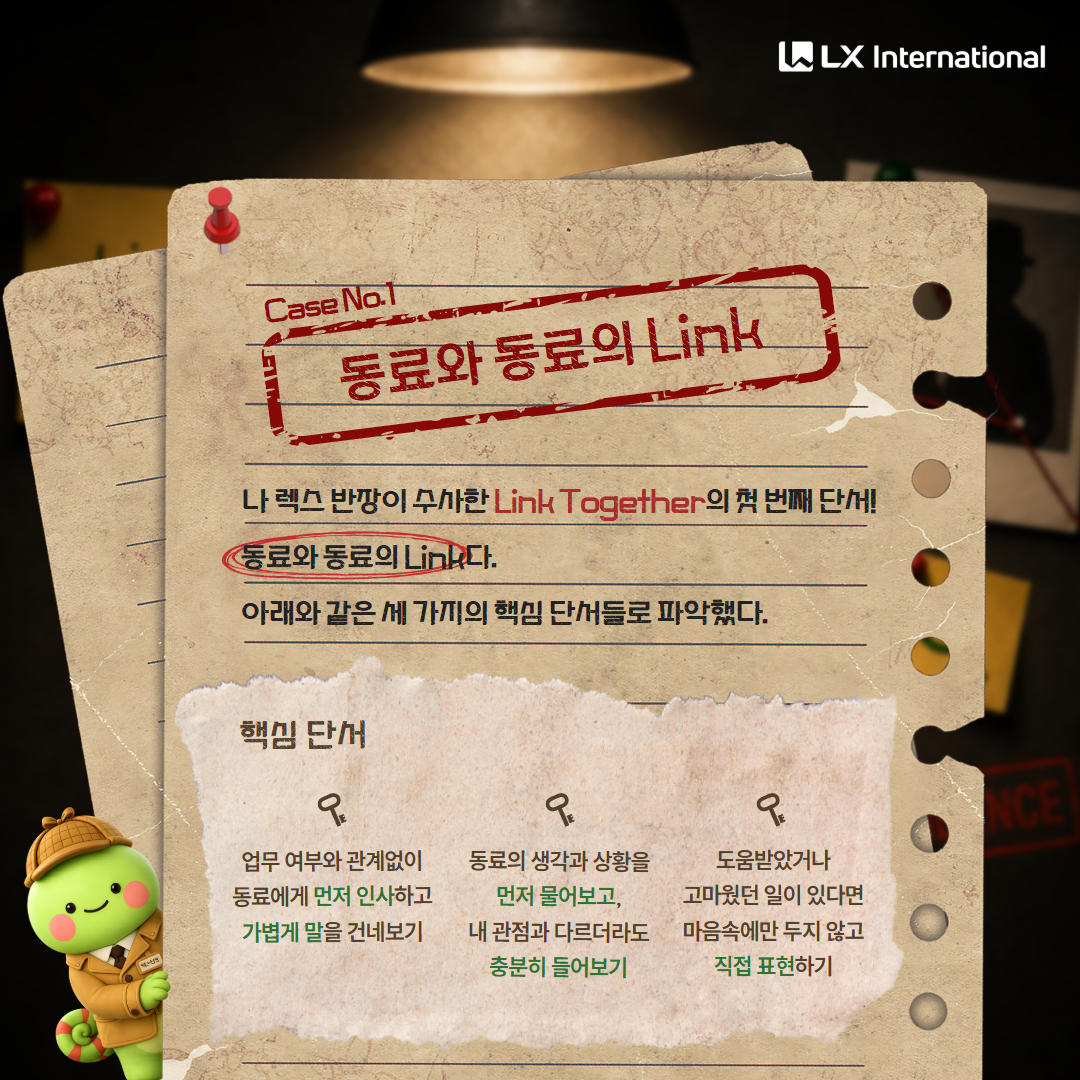
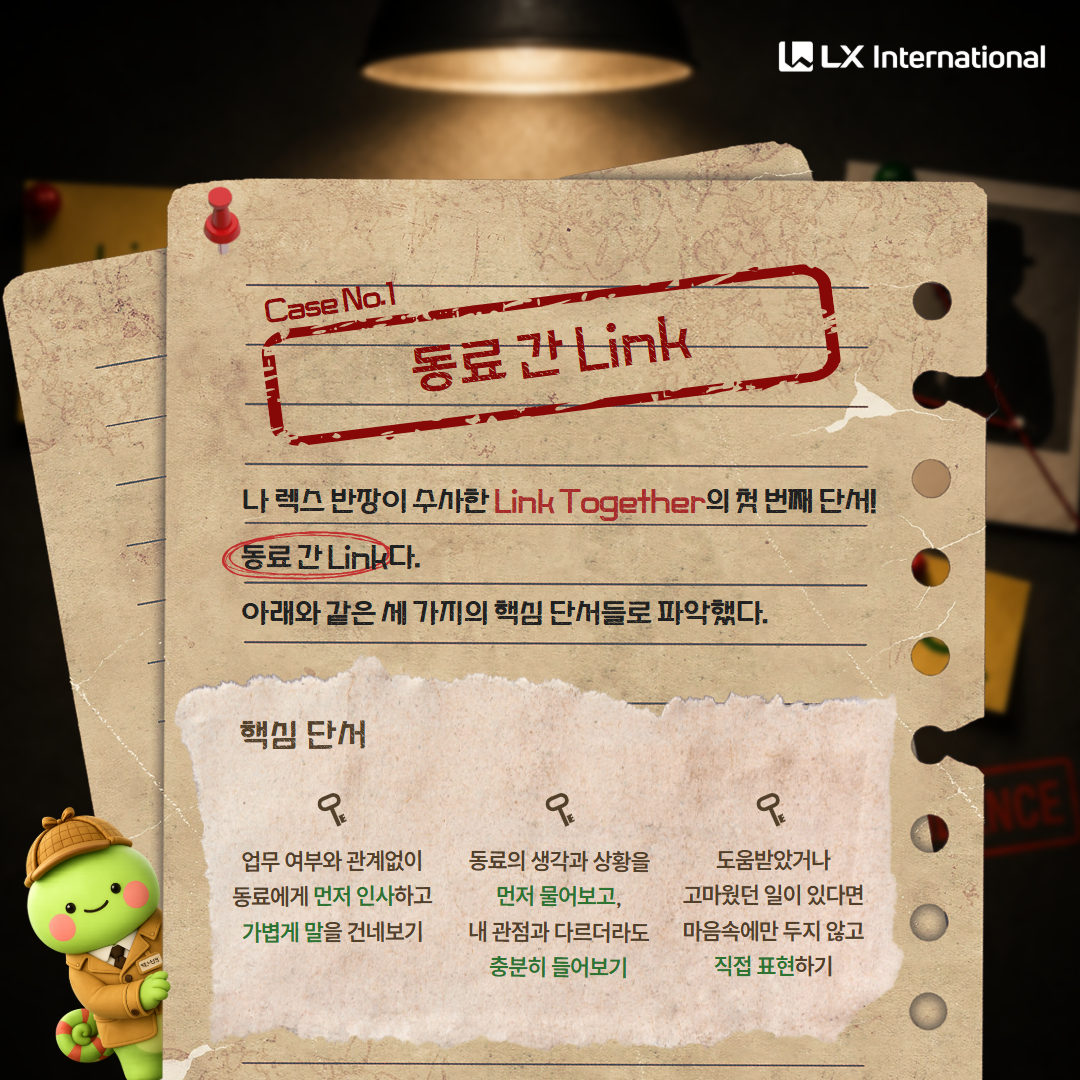
카드뉴스 수정, 모바일 카드뉴스 크기 조정

Changed region(s): [[0.3056, 0.275, 0.7028, 0.3667], [0.2139, 0.4889, 0.4583, 0.55]]

diff --git a/index.html b/index.html
@@ -257,6 +257,50 @@
   }
   .cardnews-action:active{ transform:translateY(2px); box-shadow:0 1px 0 rgba(0,0,0,0.16); }
 
+  @media (max-width: 768px){
+    .cardnews-shell{
+      display:grid;
+      grid-template-columns:1fr 1fr;
+      gap:12px;
+      align-items:center;
+      justify-items:center;
+    }
+    .cardnews-stage{
+      grid-column:1 / -1;
+      width:100%;
+    }
+    .cardnews-arrow{
+      width:44px;
+      height:44px;
+      font-size:18px;
+      margin:0;
+    }
+    .cardnews-arrow:first-of-type{
+      justify-self:end;
+    }
+    .cardnews-arrow:last-of-type{
+      justify-self:start;
+    }
+    .cardnews-image{
+      width:100%;
+      max-width:100%;
+      max-height:72vh;
+      min-height:320px;
+      height:auto;
+      aspect-ratio:9 / 16;
+      object-fit:cover;
+      object-position:center;
+      border-radius:16px;
+    }
+    #screen-cardnews .board-card{
+      width:min(96vw, 1120px);
+      padding:20px 14px 22px;
+    }
+    #screen-cardnews.screen.active{
+      padding:0 8px;
+    }
+  }
+
   .btn-tertiary{
     display:block;
     width:100%;
